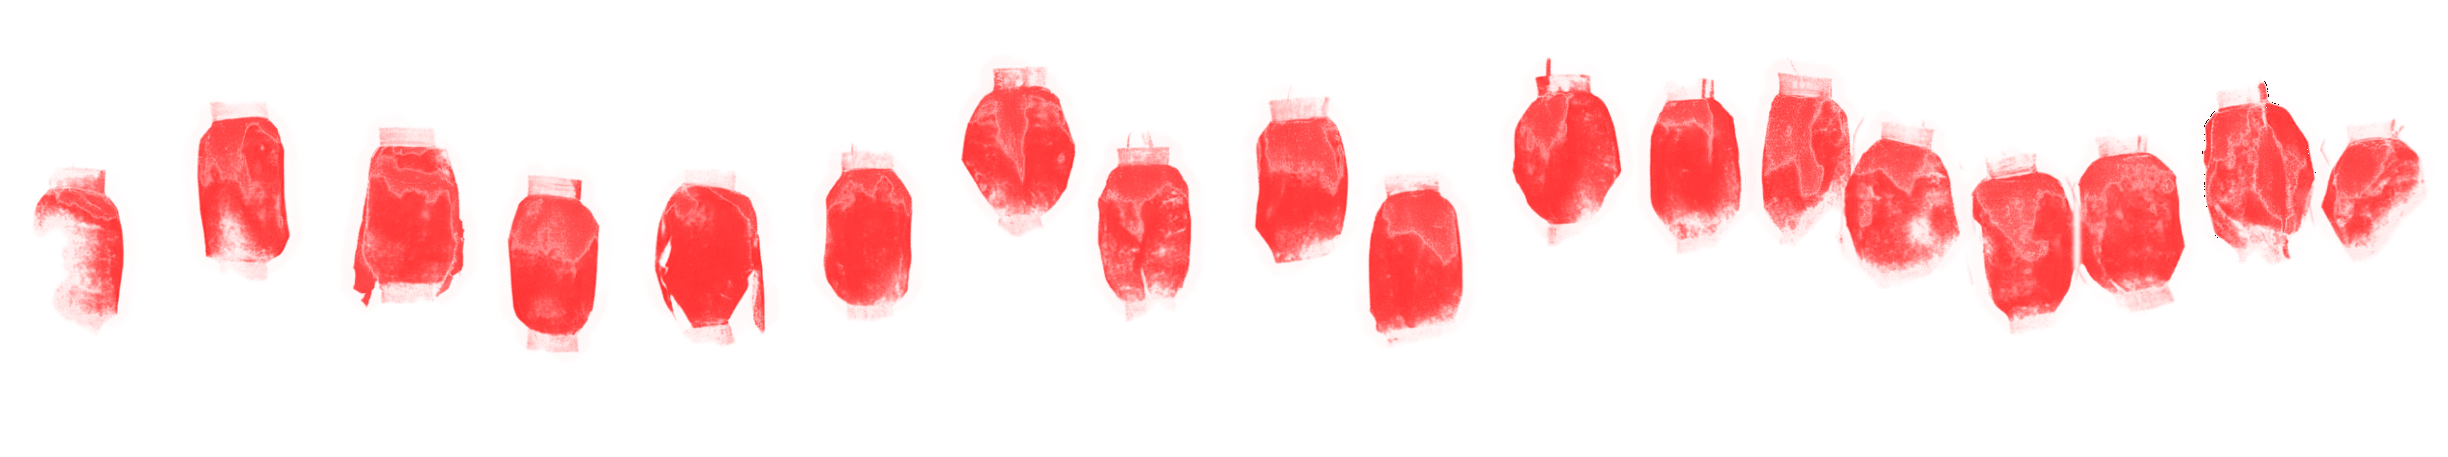
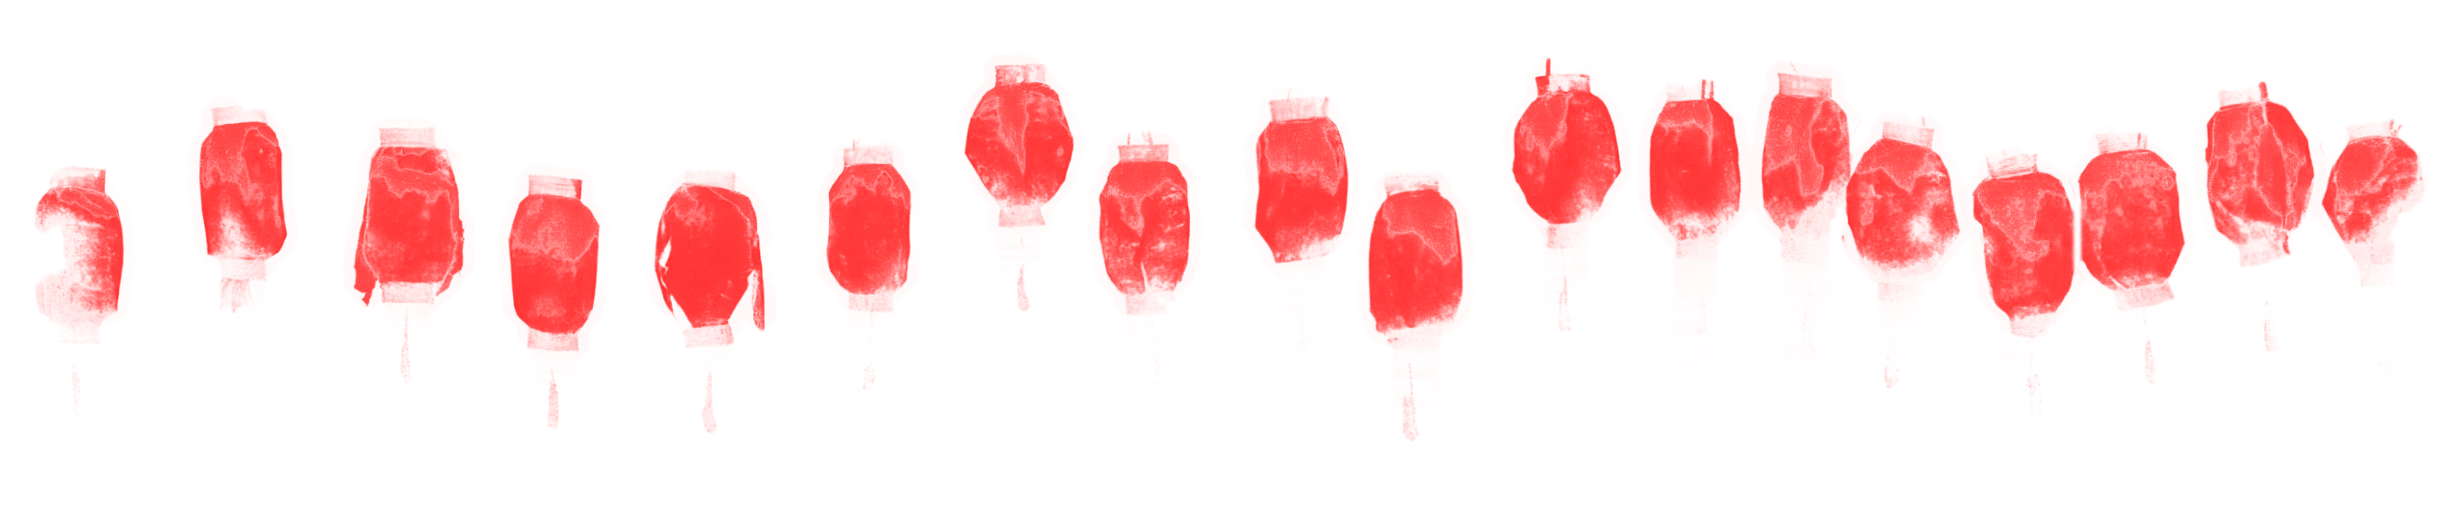
灯笼：直接取原图像素，保留暗部阴影和流苏
Claude-Session: https://claude.ai/code/session_01WvX51nbkJSoqP7cjdirpLZ

Changed region(s): [[0.3415, 0.1225, 0.9935, 0.7352], [0.0, 0.2144, 0.3725, 0.7659]]

diff --git a/CLAUDE.md b/CLAUDE.md
@@ -302,5 +302,5 @@ npm run dev:pages                             # 正式部署的路径（Pages+Wo
 ## 7.20 灯笼图重做（2026-10-06）
 
 - 用户重发了原图（2448×496，18 盏灯笼 + 顶部吊绳）。`lantern-dark/light.webp` 现在是**逐盏抠出原图灯笼，按旧图（d24f31e 版）每盏的位置/大小摆回去**（旧图和原图是同样 18 盏、同样顺序，只是摆位不同），画布 2448×457（旧图 1800×336 的 1.36 倍），所以布局、手机对齐（`margin-top:-12.6vw`）全部不变，只是更清晰、没有吊绳/线头/流苏。浅色版 = 同形状纯红。
-- **抠图方式**：alpha = max(R,G,B)/255、颜色 = 原色/alpha（等价于在黑底上做「滤色」），所以低明度细节（灯笼盖、暗部、辉光）都保留，不再用阈值切；只用每盏灯笼的区域（膨胀 14px）去掉绳子和别盏灯笼。浅色版同 alpha、颜色改纯红。
+- **抠图方式（最终）**：直接从原图取像素，alpha = max(R,G,B)/255、颜色 = 原色/alpha（等价黑底「滤色」），不做阈值切，所以暗部阴影、灯笼盖、**流苏**、辉光都在。每盏灯笼的取用区域 = 低阈值 + 大开运算得到的灯笼块（含暗部）膨胀 12px，再加灯笼正下方 ±24px、向下 140px 的流苏带；顶部吊绳和别盏灯笼排除。画布 2448×520（比之前多 63px 放流苏，手机 190px 高的固定带从顶部截取，不受影响）。不要再用「处理后的图」（旧 webp 或 v1 阈值图）当来源，会丢暗部和流苏。
 - 第一版（直接去绳、保持原图排布）被用户否决：她要的是旧图的排布。
